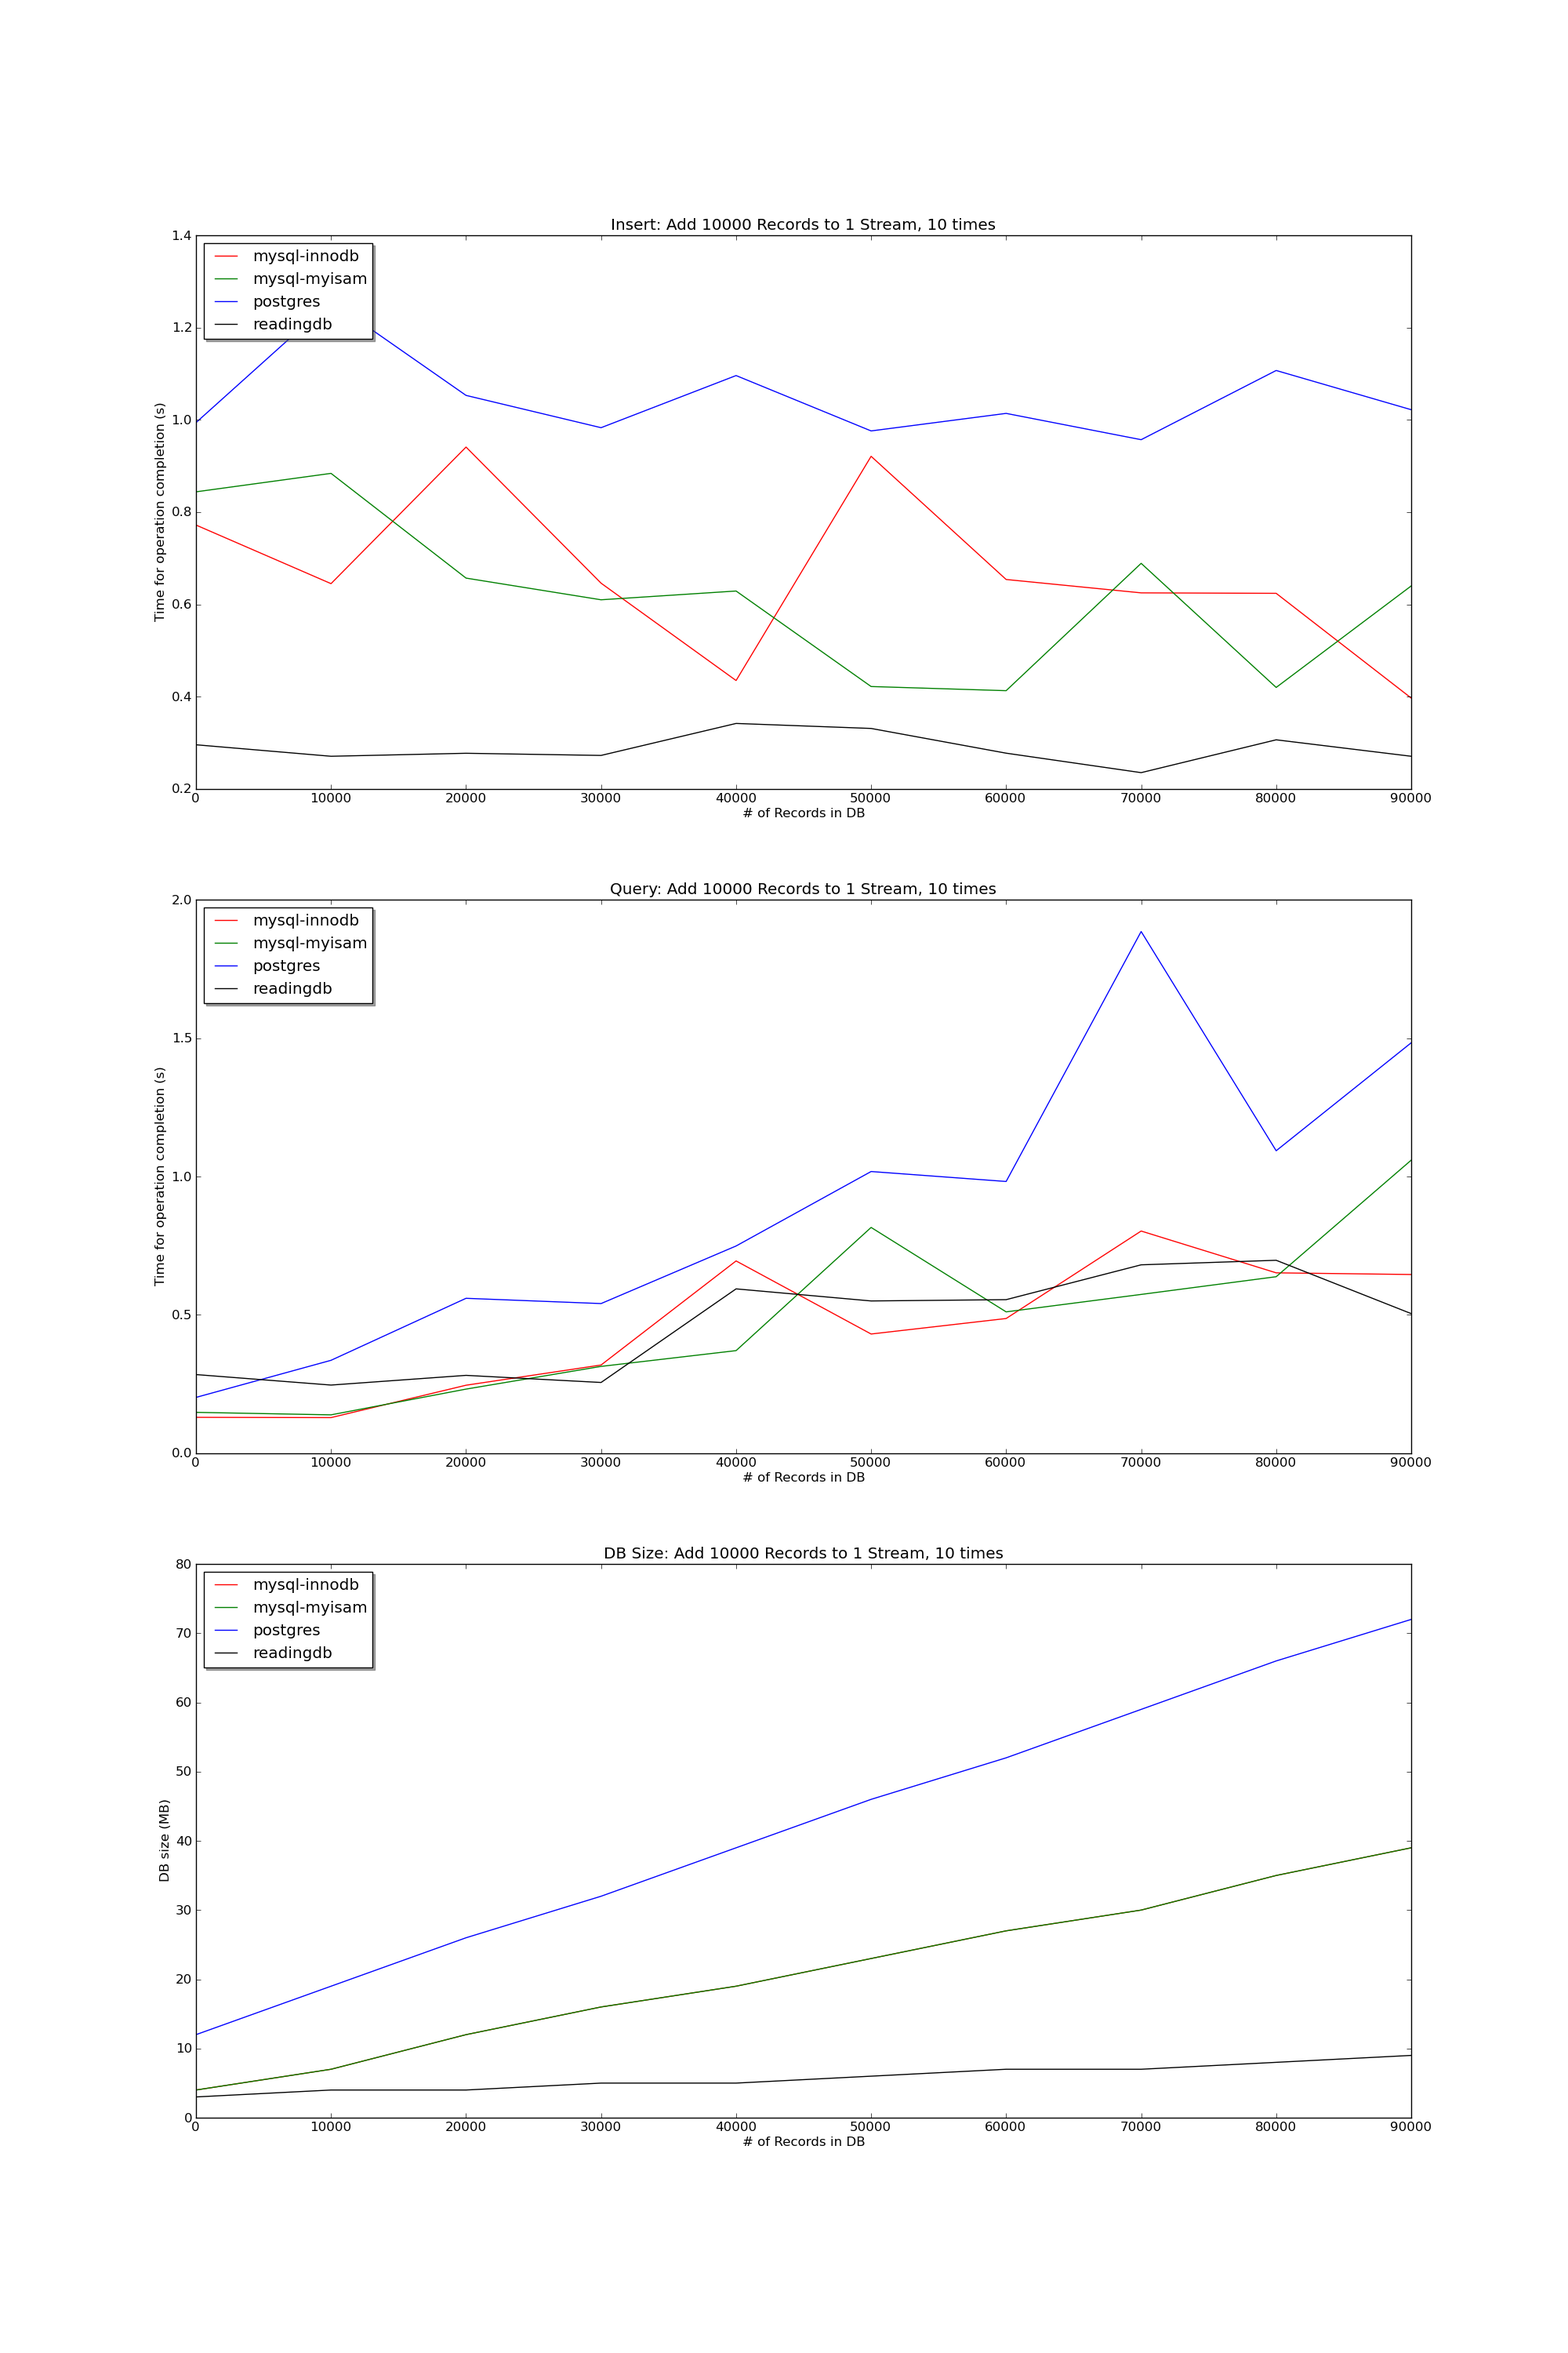
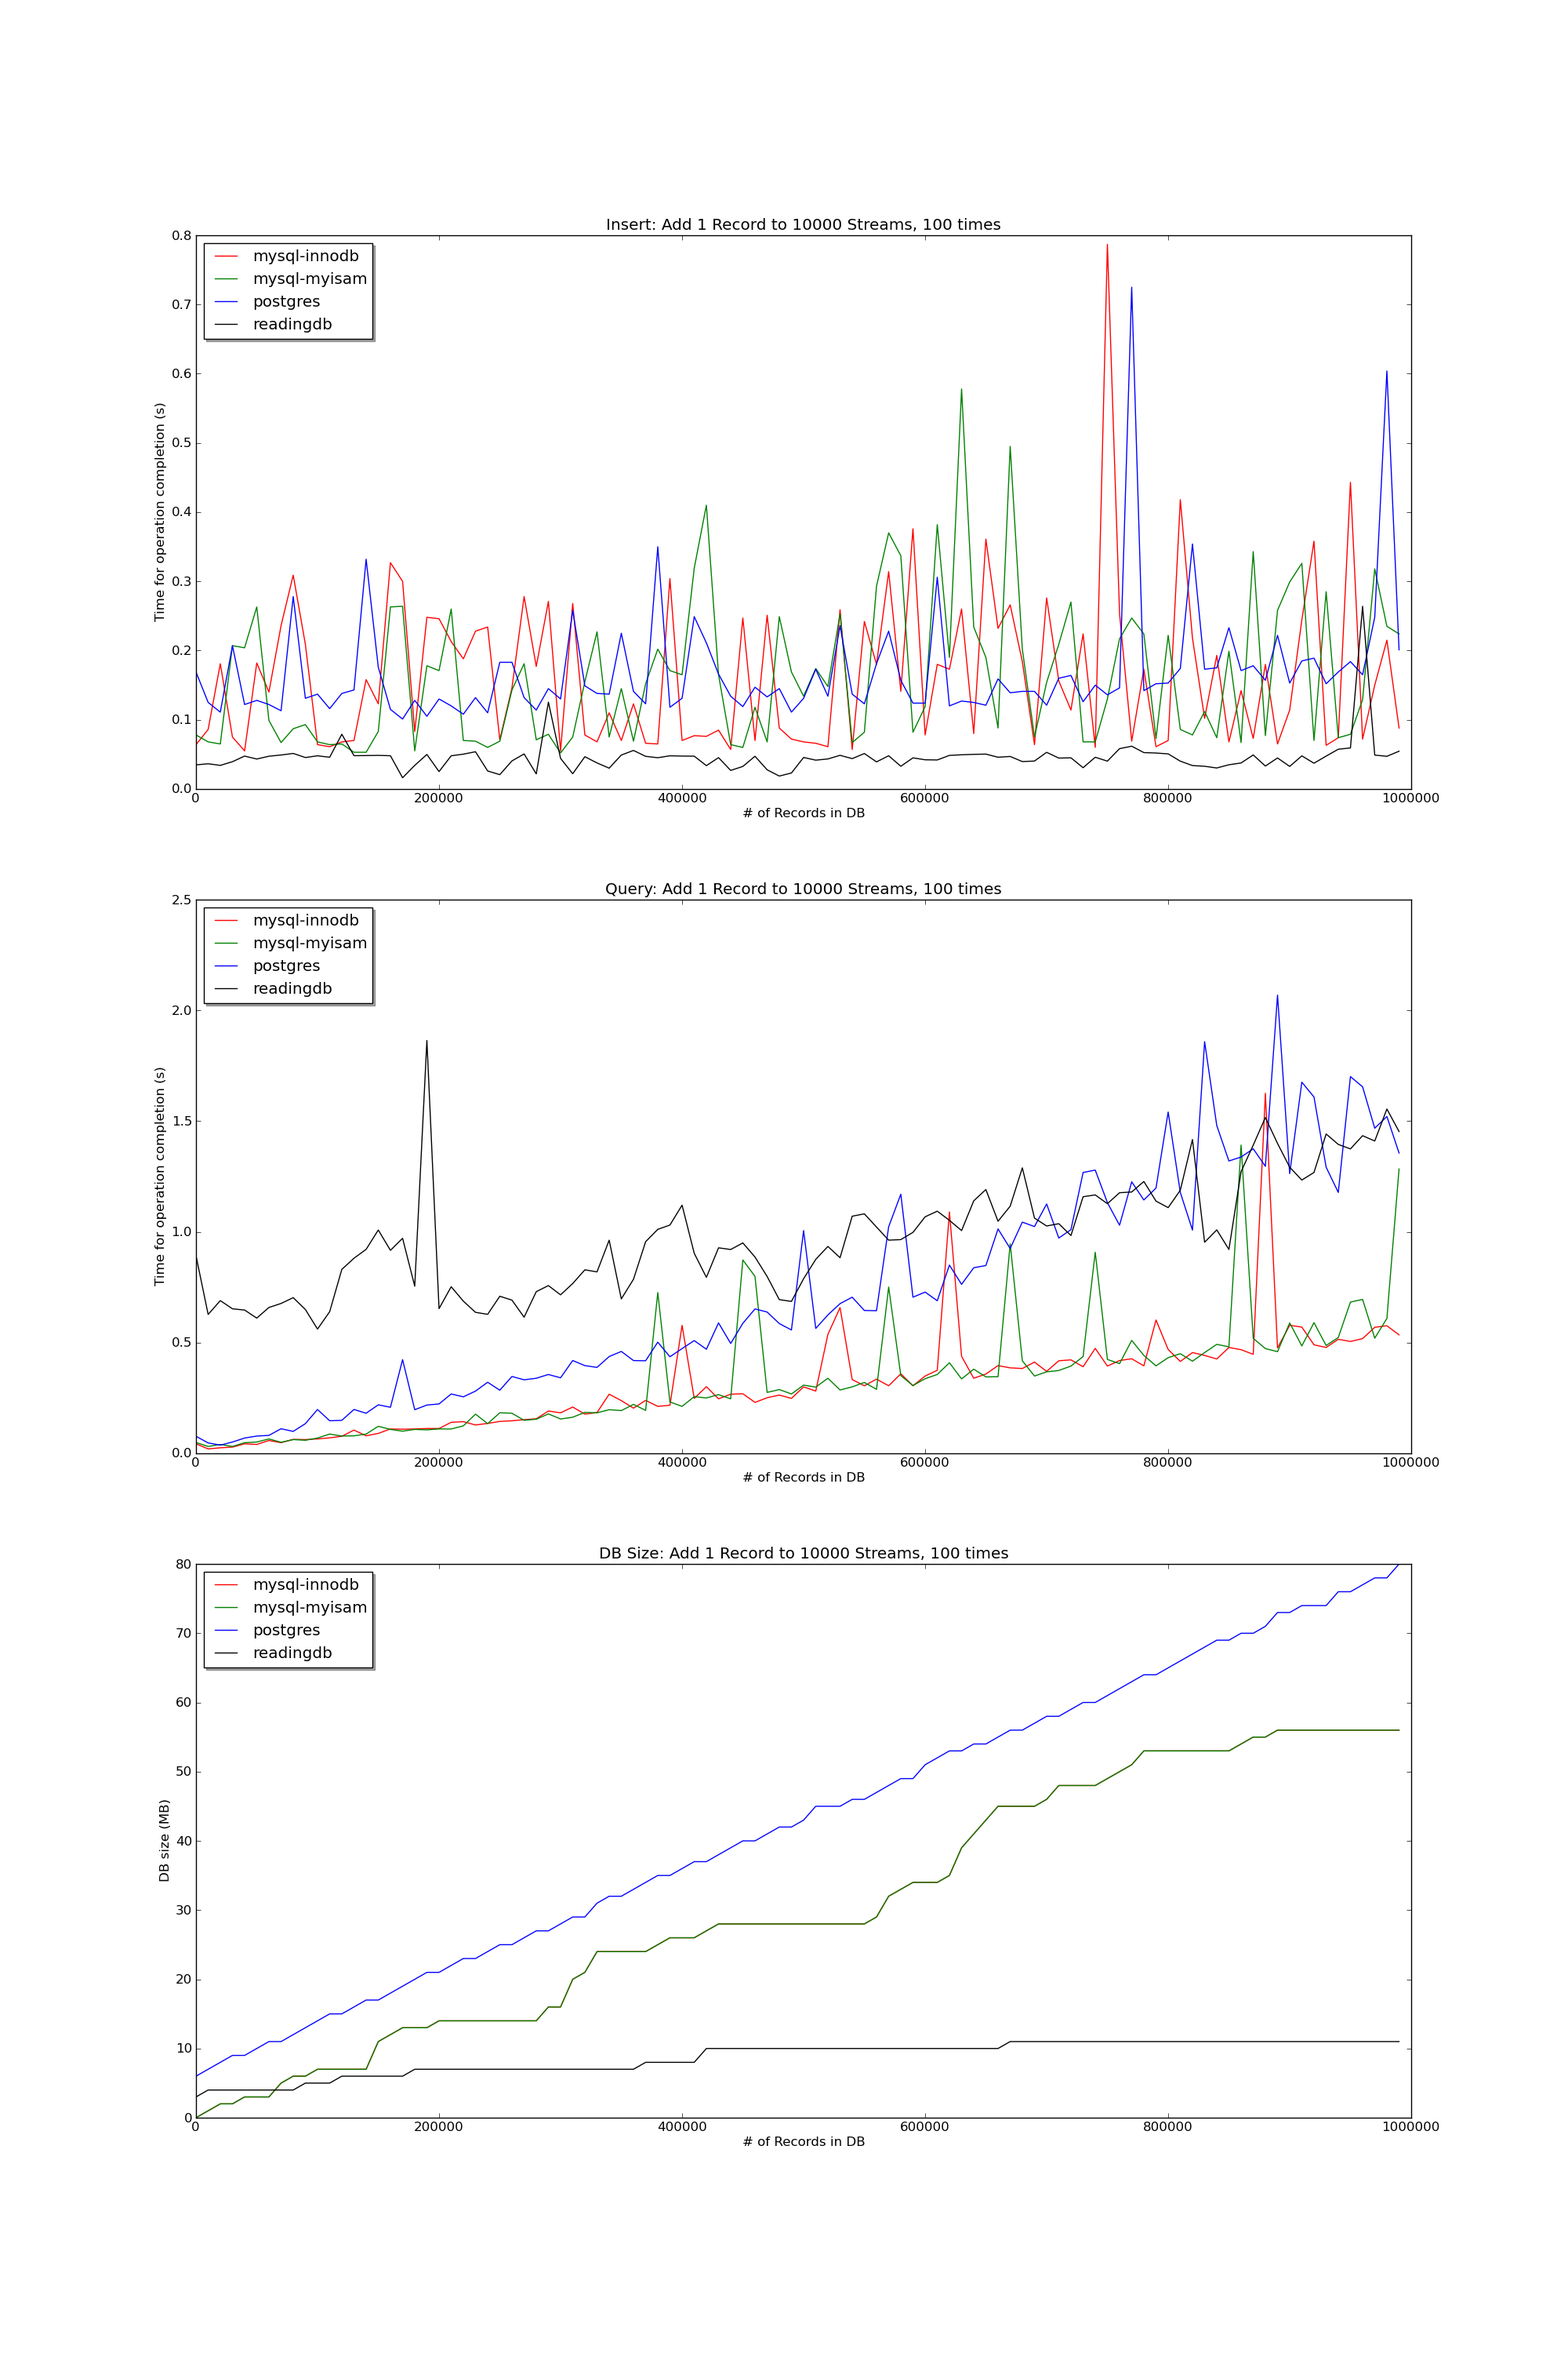
regenerated better graphs for old tests

diff --git a/logparse/logparser_insertquery.py b/logparse/logparser_insertquery.py
@@ -10,6 +10,7 @@ DB_NAMES = ["mysql-myisam", "mysql-innodb", "opentsdb", "postgres",
 itervals = ['r-', 'g-', 'b-', 'k-', 'r:', 'g:', 'b:', 'k:']
 graph_1_iter = iter(itervals)
 graph_2_iter = iter(itervals)
+graph_3_iter = iter(itervals)
 
 
 
@@ -59,18 +60,27 @@ db_arrays = []
 for x in sys.argv[1:]:
     db_arrays.append(parsedata(x))
 
-fig = plt.figure(figsize=(20, 20), dpi=300)
-ax1 = fig.add_subplot(211)
-ax2 = fig.add_subplot(212)
-ax1.set_title('Add 1 Record to 10000 Streams, 100 times')
+fig = plt.figure(figsize=(20, 30), dpi=300)
+
+ax1 = fig.add_subplot(311)
+ax2 = fig.add_subplot(312)
+ax3 = fig.add_subplot(313)
+
+ax1.set_title('Insert: Add 1 Record to 10000 Streams, 100 times')
 ax1.set_xlabel('# of Records in DB')
 ax1.set_ylabel('Time for operation completion (s)')
-ax2.set_title('Add 1 Record to 10000 Streams, 100 times')
+
+ax2.set_title('Query: Add 1 Record to 10000 Streams, 100 times')
 ax2.set_xlabel('# of Records in DB')
-ax2.set_ylabel('DB size (MB)')
+ax2.set_ylabel('Time for operation completion (s)')
+
+ax3.set_title('DB Size: Add 1 Record to 10000 Streams, 100 times')
+ax3.set_xlabel('# of Records in DB')
+ax3.set_ylabel('DB size (MB)')
 
 legend1 = ()
 legend2 = ()
+legend3 = ()
 
 for a in db_arrays:
     name = a[0]
@@ -79,12 +89,15 @@ for a in db_arrays:
     y1 = a[:,1]
     y2 = a[:,2]
     y3 = a[:,3]
-    ax1.plot(x, y1, graph_1_iter.next(), x, y2, graph_1_iter.next())
-    ax2.plot(x, y3, graph_2_iter.next())
-    legend1 += ('Insertion (' + name + ')', 'Query (' + name + ')')
+    ax1.plot(x, y1, graph_1_iter.next())
+    ax2.plot(x, y2, graph_2_iter.next())
+    ax3.plot(x, y3, graph_3_iter.next())
+    legend1 += (name,)
     legend2 += (name,)
+    legend3 += (name,)
 
-leg = ax1.legend(legend1, 'upper left', shadow=True)
+leg1 = ax1.legend(legend1, 'upper left', shadow=True)
 leg2 = ax2.legend(legend2, 'upper left', shadow=True)
+leg3 = ax3.legend(legend3, 'upper left', shadow=True)
 
 plt.savefig('test.png')
